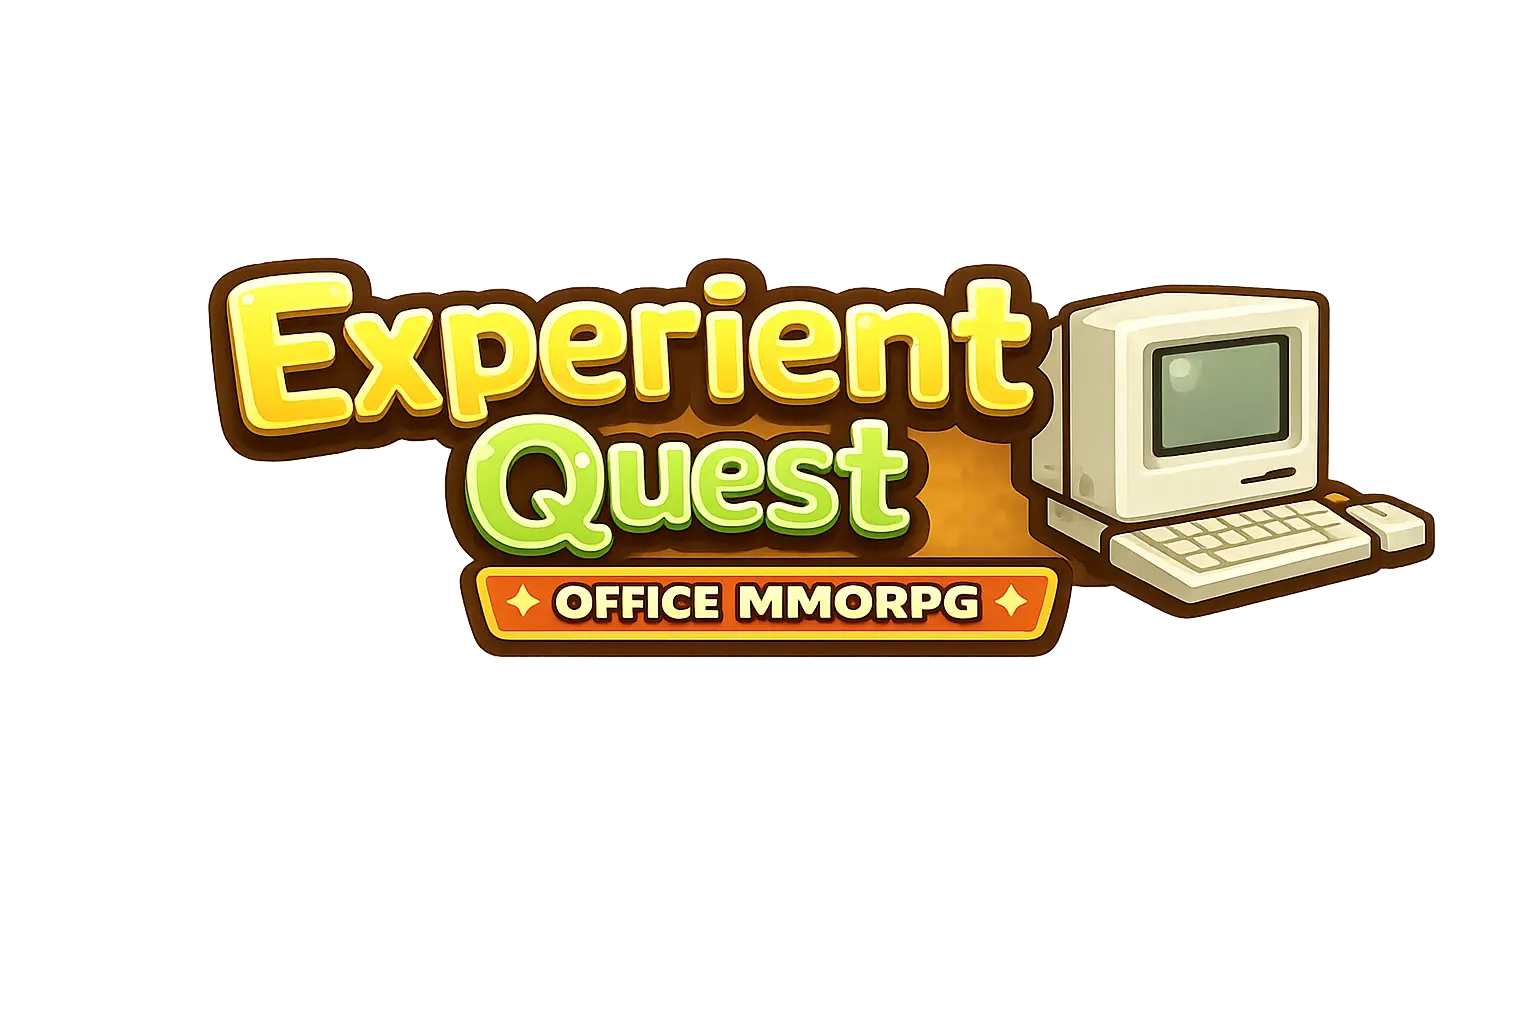
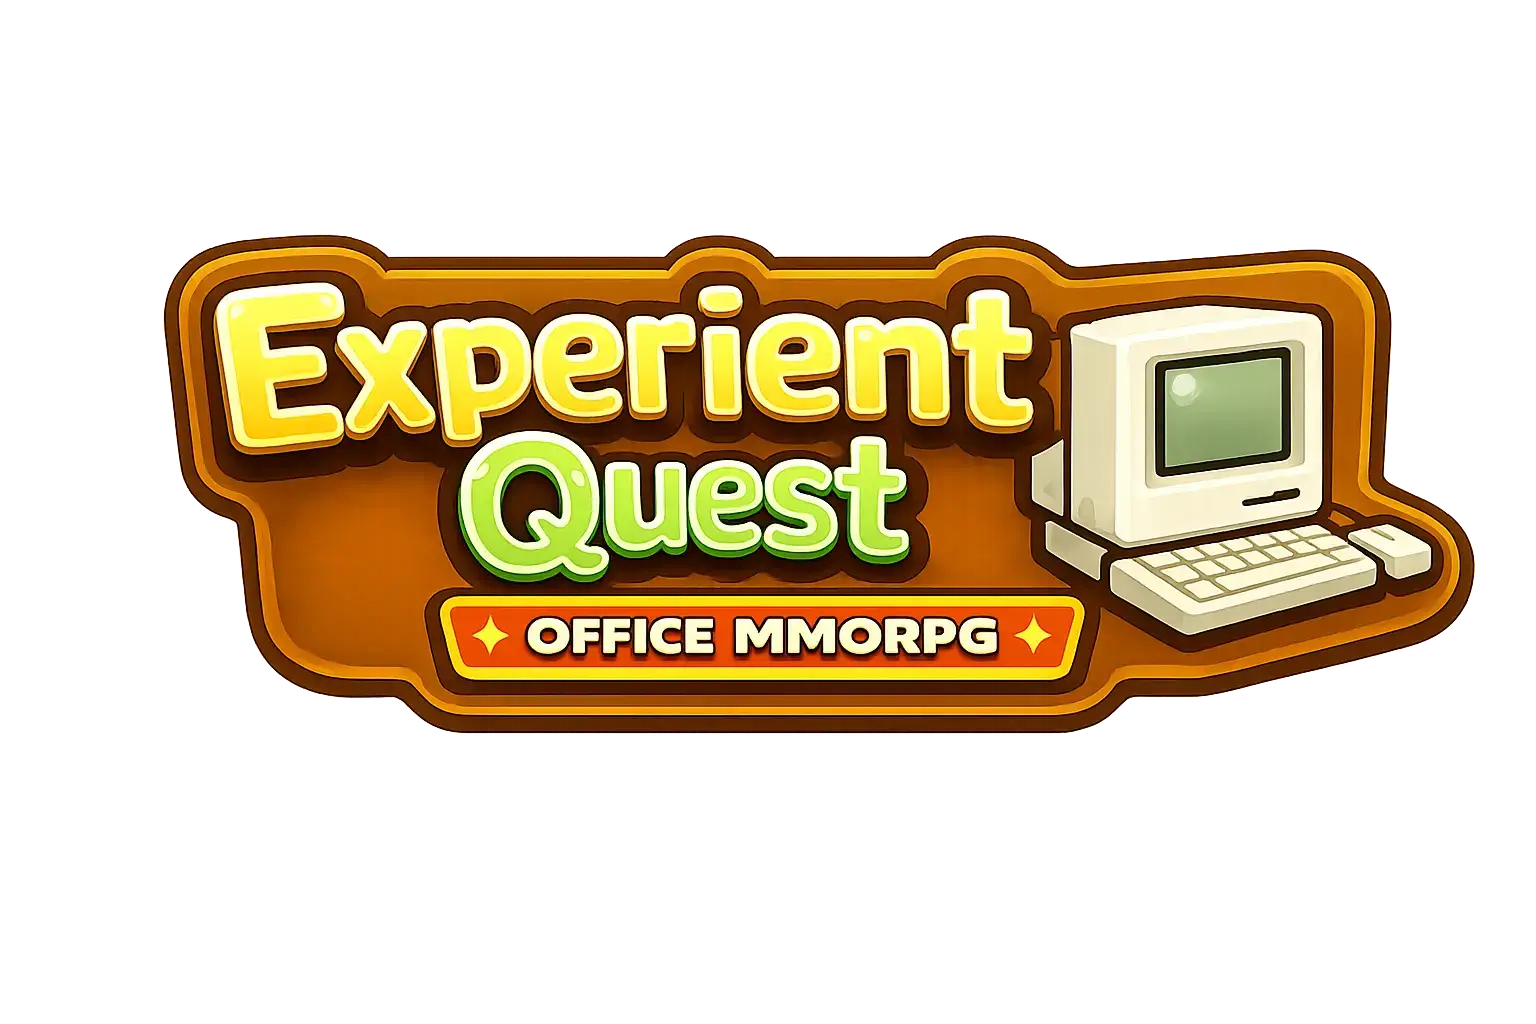
Updated title asset + adding animation to bios splash

diff --git a/src/components/AnimatedCatLogo/AnimatedCatLogo.css b/src/components/AnimatedCatLogo/AnimatedCatLogo.css
@@ -1,0 +1,47 @@
+.animated-cat-logo {
+  width: var(--cat-logo-size, min(256px, 100%));
+  /* Sprite frames are 1024×1536, but the cat occupies rows 0..1100 with
+     the rest being transparent tail padding. Match BiosSplash's original
+     crop so the wordmark can sit close to the paws. */
+  aspect-ratio: 1024 / 1100;
+
+  background-image: var(--cat-logo-sprite);
+  background-repeat: no-repeat;
+  /* 4 frames wide × the sprite's native aspect (1536/1100 ≈ 1.3963)
+     vertically, which crops the transparent bottom of each frame while
+     leaving the full 4-frame strip addressable via background-position. */
+  background-size: 400% 139.636%;
+  background-position: 0% 0%;
+
+  image-rendering: pixelated;
+  image-rendering: crisp-edges;
+
+  animation: cat-glasses-shine 3.5s steps(1, end) infinite;
+}
+
+@keyframes cat-glasses-shine {
+  0%,
+  78% {
+    background-position: 0% 0%;
+  }
+  82% {
+    background-position: 33.333% 0%;
+  }
+  86% {
+    background-position: 66.666% 0%;
+  }
+  90% {
+    background-position: 100% 0%;
+  }
+  94%,
+  100% {
+    background-position: 0% 0%;
+  }
+}
+
+@media (prefers-reduced-motion: reduce) {
+  .animated-cat-logo {
+    animation: none;
+    background-position: 0% 0%;
+  }
+}

diff --git a/src/components/BiosSplash/BiosSplash.tsx b/src/components/BiosSplash/BiosSplash.tsx
@@ -1,8 +1,8 @@
 import { useEffect, useState } from 'react'
 import { useEnvironment } from '@react-three/drei'
+import { AnimatedCatLogo } from '../AnimatedCatLogo/AnimatedCatLogo'
 import './BiosSplash.css'
 
-const CAT_URL = `${import.meta.env.BASE_URL}assets/title/bios-cat.webp`
 const TITLE_ART_URL = `${import.meta.env.BASE_URL}assets/title/title.webp`
 
 // Kick off the sunset HDR fetch as soon as the splash mounts. This is the
@@ -90,12 +90,7 @@ export function BiosSplash({ onLeaving, onDone }: BiosSplashProps) {
   return (
     <div className={cls} role="presentation" aria-hidden="true">
       <div className="bios-splash__stack">
-        <img
-          className="bios-splash__cat"
-          src={CAT_URL}
-          alt=""
-          draggable={false}
-        />
+        <AnimatedCatLogo className="bios-splash__cat" ariaLabel="" />
         <div className="bios-splash__wordmark">youngvz creations</div>
       </div>
     </div>

diff --git a/src/components/AnimatedCatLogo/AnimatedCatLogo.tsx b/src/components/AnimatedCatLogo/AnimatedCatLogo.tsx
@@ -1,0 +1,29 @@
+import type { CSSProperties } from 'react'
+import './AnimatedCatLogo.css'
+
+const SPRITE_URL = `${import.meta.env.BASE_URL}assets/title/spritesheet.webp`
+
+type AnimatedCatLogoProps = {
+  className?: string
+  ariaLabel?: string
+  style?: CSSProperties
+}
+
+export function AnimatedCatLogo({
+  className = '',
+  ariaLabel = 'Pixel art cat with shining glasses',
+  style,
+}: AnimatedCatLogoProps) {
+  const mergedStyle = {
+    ['--cat-logo-sprite' as string]: `url("${SPRITE_URL}")`,
+    ...style,
+  } as CSSProperties
+  return (
+    <div
+      className={`animated-cat-logo ${className}`.trim()}
+      role="img"
+      aria-label={ariaLabel}
+      style={mergedStyle}
+    />
+  )
+}

diff --git a/src/components/BiosSplash/BiosSplash.css b/src/components/BiosSplash/BiosSplash.css
@@ -47,15 +47,7 @@
 }
 
 .bios-splash__cat {
-  width: clamp(140px, 22vw, 260px);
-  /* Cat asset ships as 1024×1536 (roughly 2:3) with the visible cat
-     occupying the top ~72%. Crop the transparent bottom via a fixed
-     aspect ratio + object-position so the wordmark sits close to the
-     paws instead of miles below. */
-  aspect-ratio: 1024 / 1100;
-  object-fit: cover;
-  object-position: top;
-  image-rendering: pixelated;
+  --cat-logo-size: clamp(140px, 22vw, 260px);
   filter: drop-shadow(0 4px 12px rgba(0, 0, 0, 0.5));
 }
 
